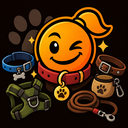
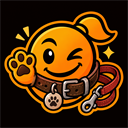
Ship the ModIcon at 128 px and keep the full-resolution source under Art

diff --git a/STATUS.md b/STATUS.md
@@ -1,7 +1,7 @@
 ---
 settings_audit: complete
 rights_audit: complete
-modicon_audit: partial
+modicon_audit: complete
 preview_audit: complete
 automated_tests: complete
 xml_tests: complete
@@ -21,7 +21,6 @@ showcase:     complete
 tested_on:
 workshop:     3806765840 (private 0.1.0 prepublication, 2026-09-23, from the game's upload button)
 remaining:
-  - unverified: ModIcon.png in the working tree is 1254x1254, 1235608 bytes (was 128x128, 27708); not committed, owner to decide; modicon_audit needs recheck
   - unverified: in-game primary settings access, restart effects and persistence, hidden shortcut and RIMMSQOL interaction (scenario K)
   - unverified: English and French runtime text, generated bills, MVCF commands and tooltips, optional integrations, and Steam Deck layout
   - unverified: never loaded by RimWorld; scenarios A-K in TESTING.md are still waiting
@@ -455,3 +454,14 @@ Local change left in place: Mod/About/ModIcon.png (not committed).
   last push 2023-03-01). No repository was found for Dog Collars, Patch Collar Malinois, Animal Diapers,
   Medieval Horse Plate Armour or [CSM]RealisticAwesomeGoat (installed files searched for a GitHub link: none;
   Steam pages not re-read). A pull request to the two repositories would be public: only with the owner's word.
+
+## ModIcon decision — 2026-09-26
+
+The owner kept the 1254x1254 mascot icon (collar, tag, lead, waving paw: more than the one or two
+accompanying objects of the style guide) and asked for a lighter file. Her decision is an override of
+that point. The shipped `Mod/About/ModIcon.png` is the same image scaled to 128x128 (bicubic, PNG,
+24096 bytes; was 1235608). The full-resolution source is `Art/ModIcon-source-1254.png`. Not redrawn,
+not regenerated. Inspected at 128 px; the 32 px rendering was not separately checked. The Workshop
+item 3806765840 still carries the heavy icon until the next upload.
+`modicon_audit: complete` (dimensions, format, weight; crowding overridden by the owner).
+Stage stays `horsMonoRepo` only because of the missing Pickle suite and the unrun tests.
